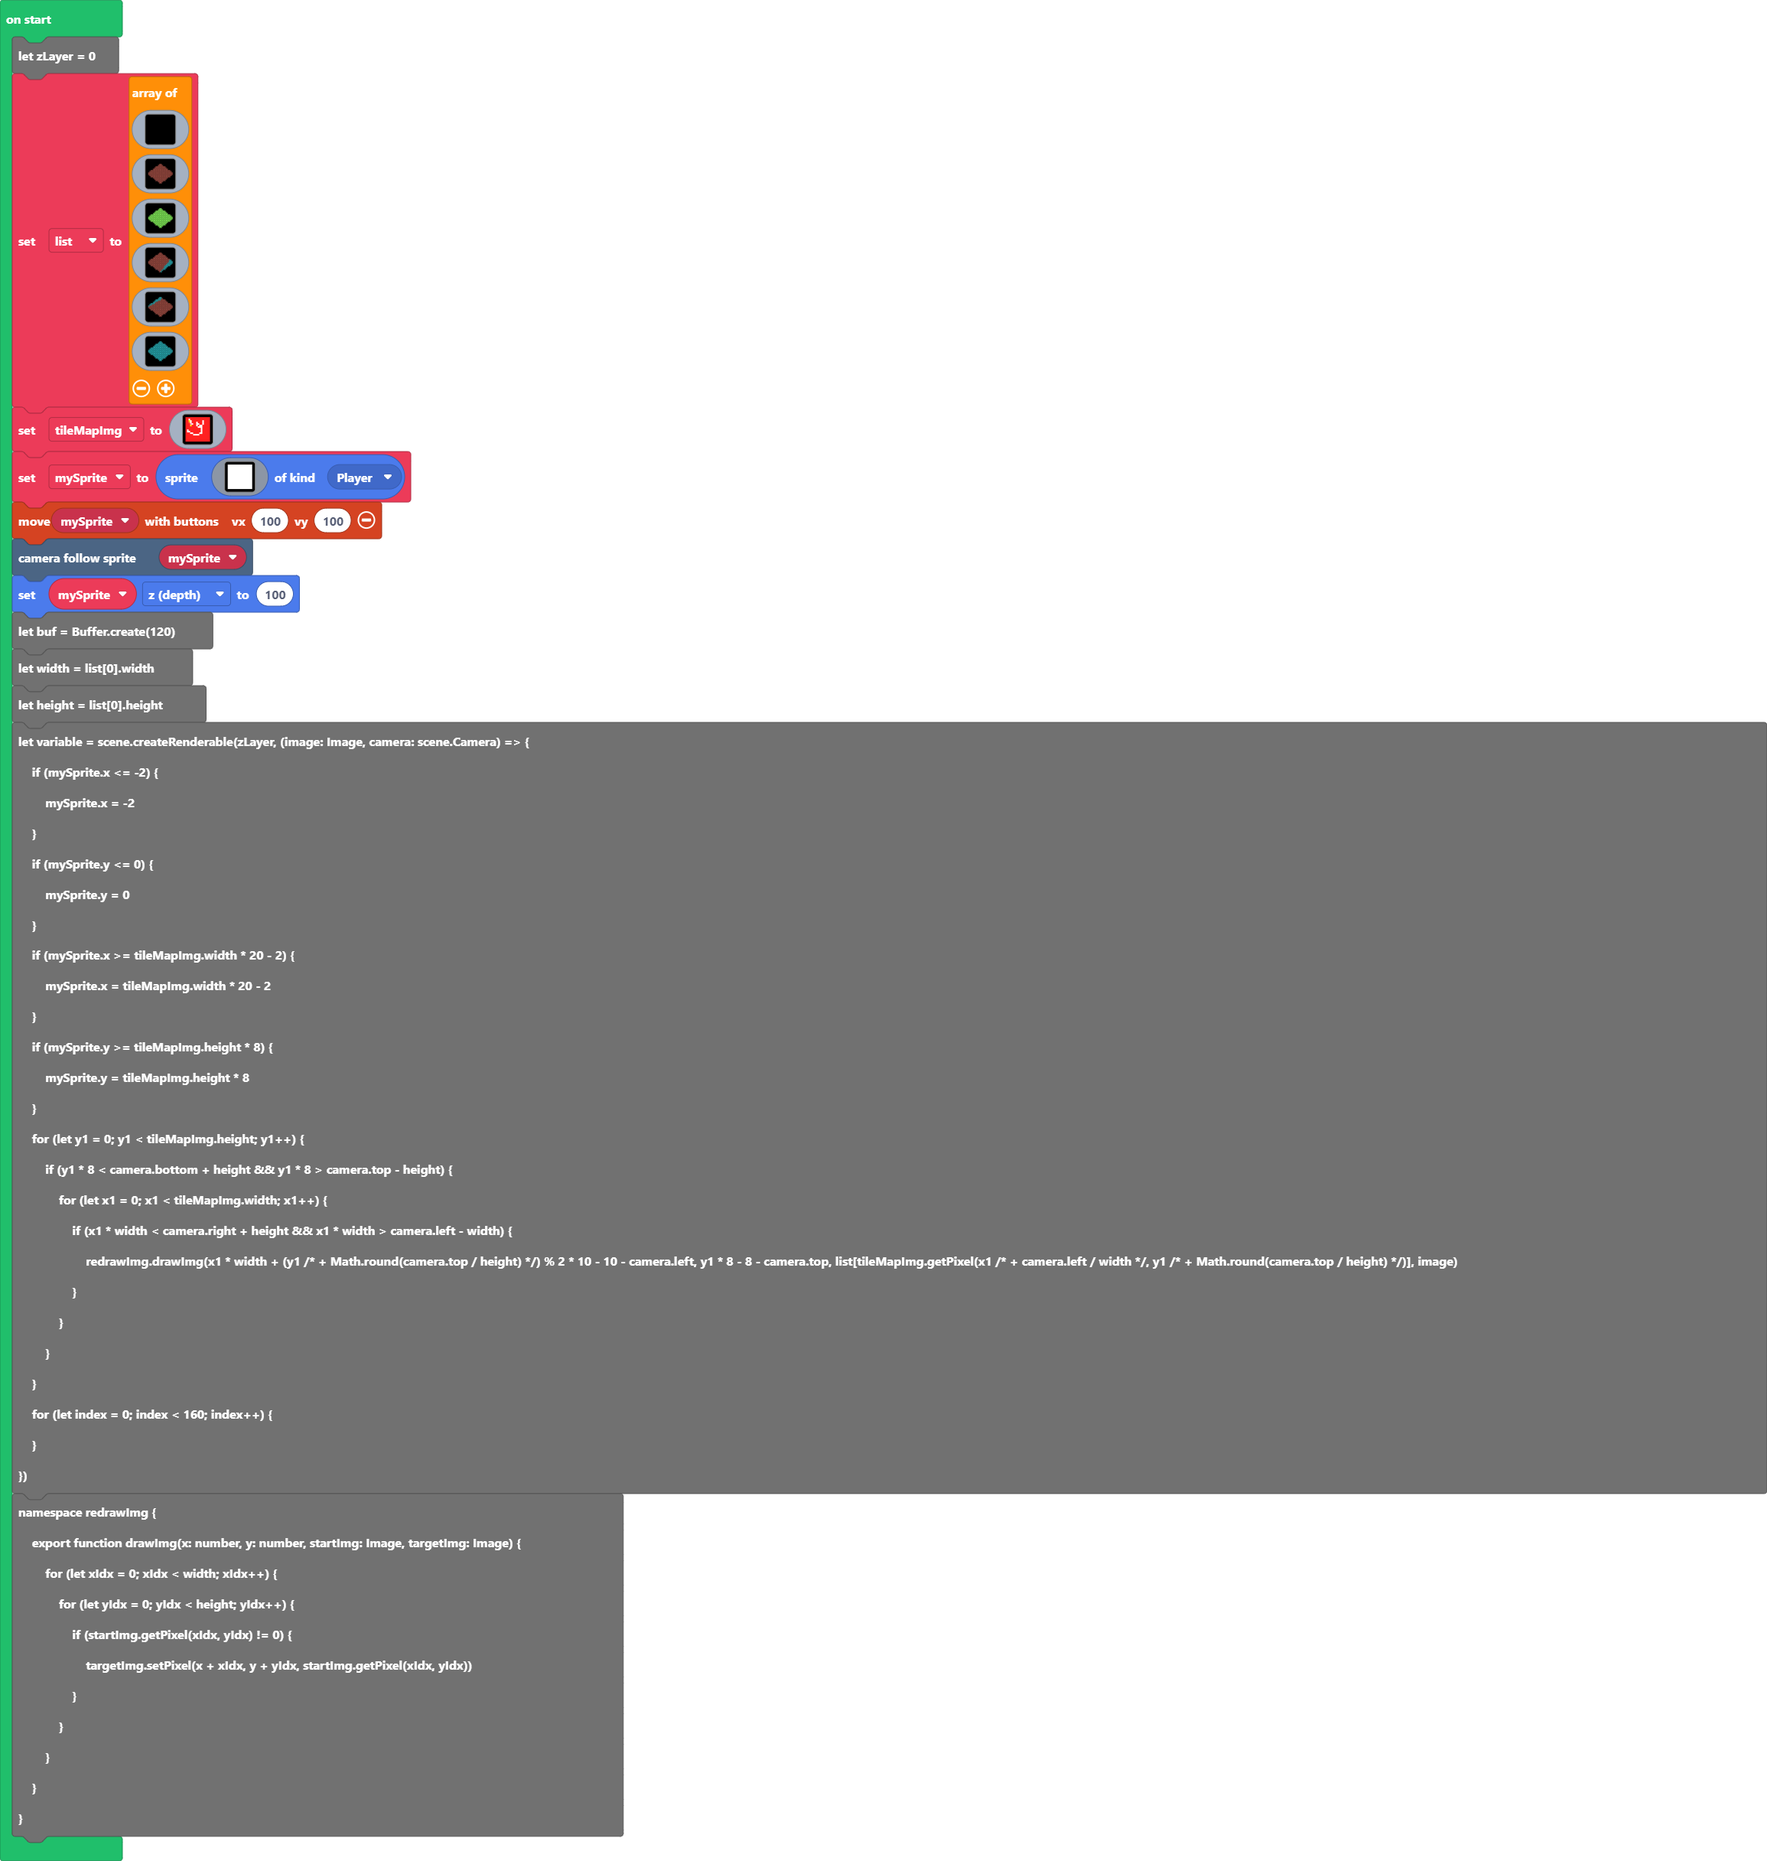
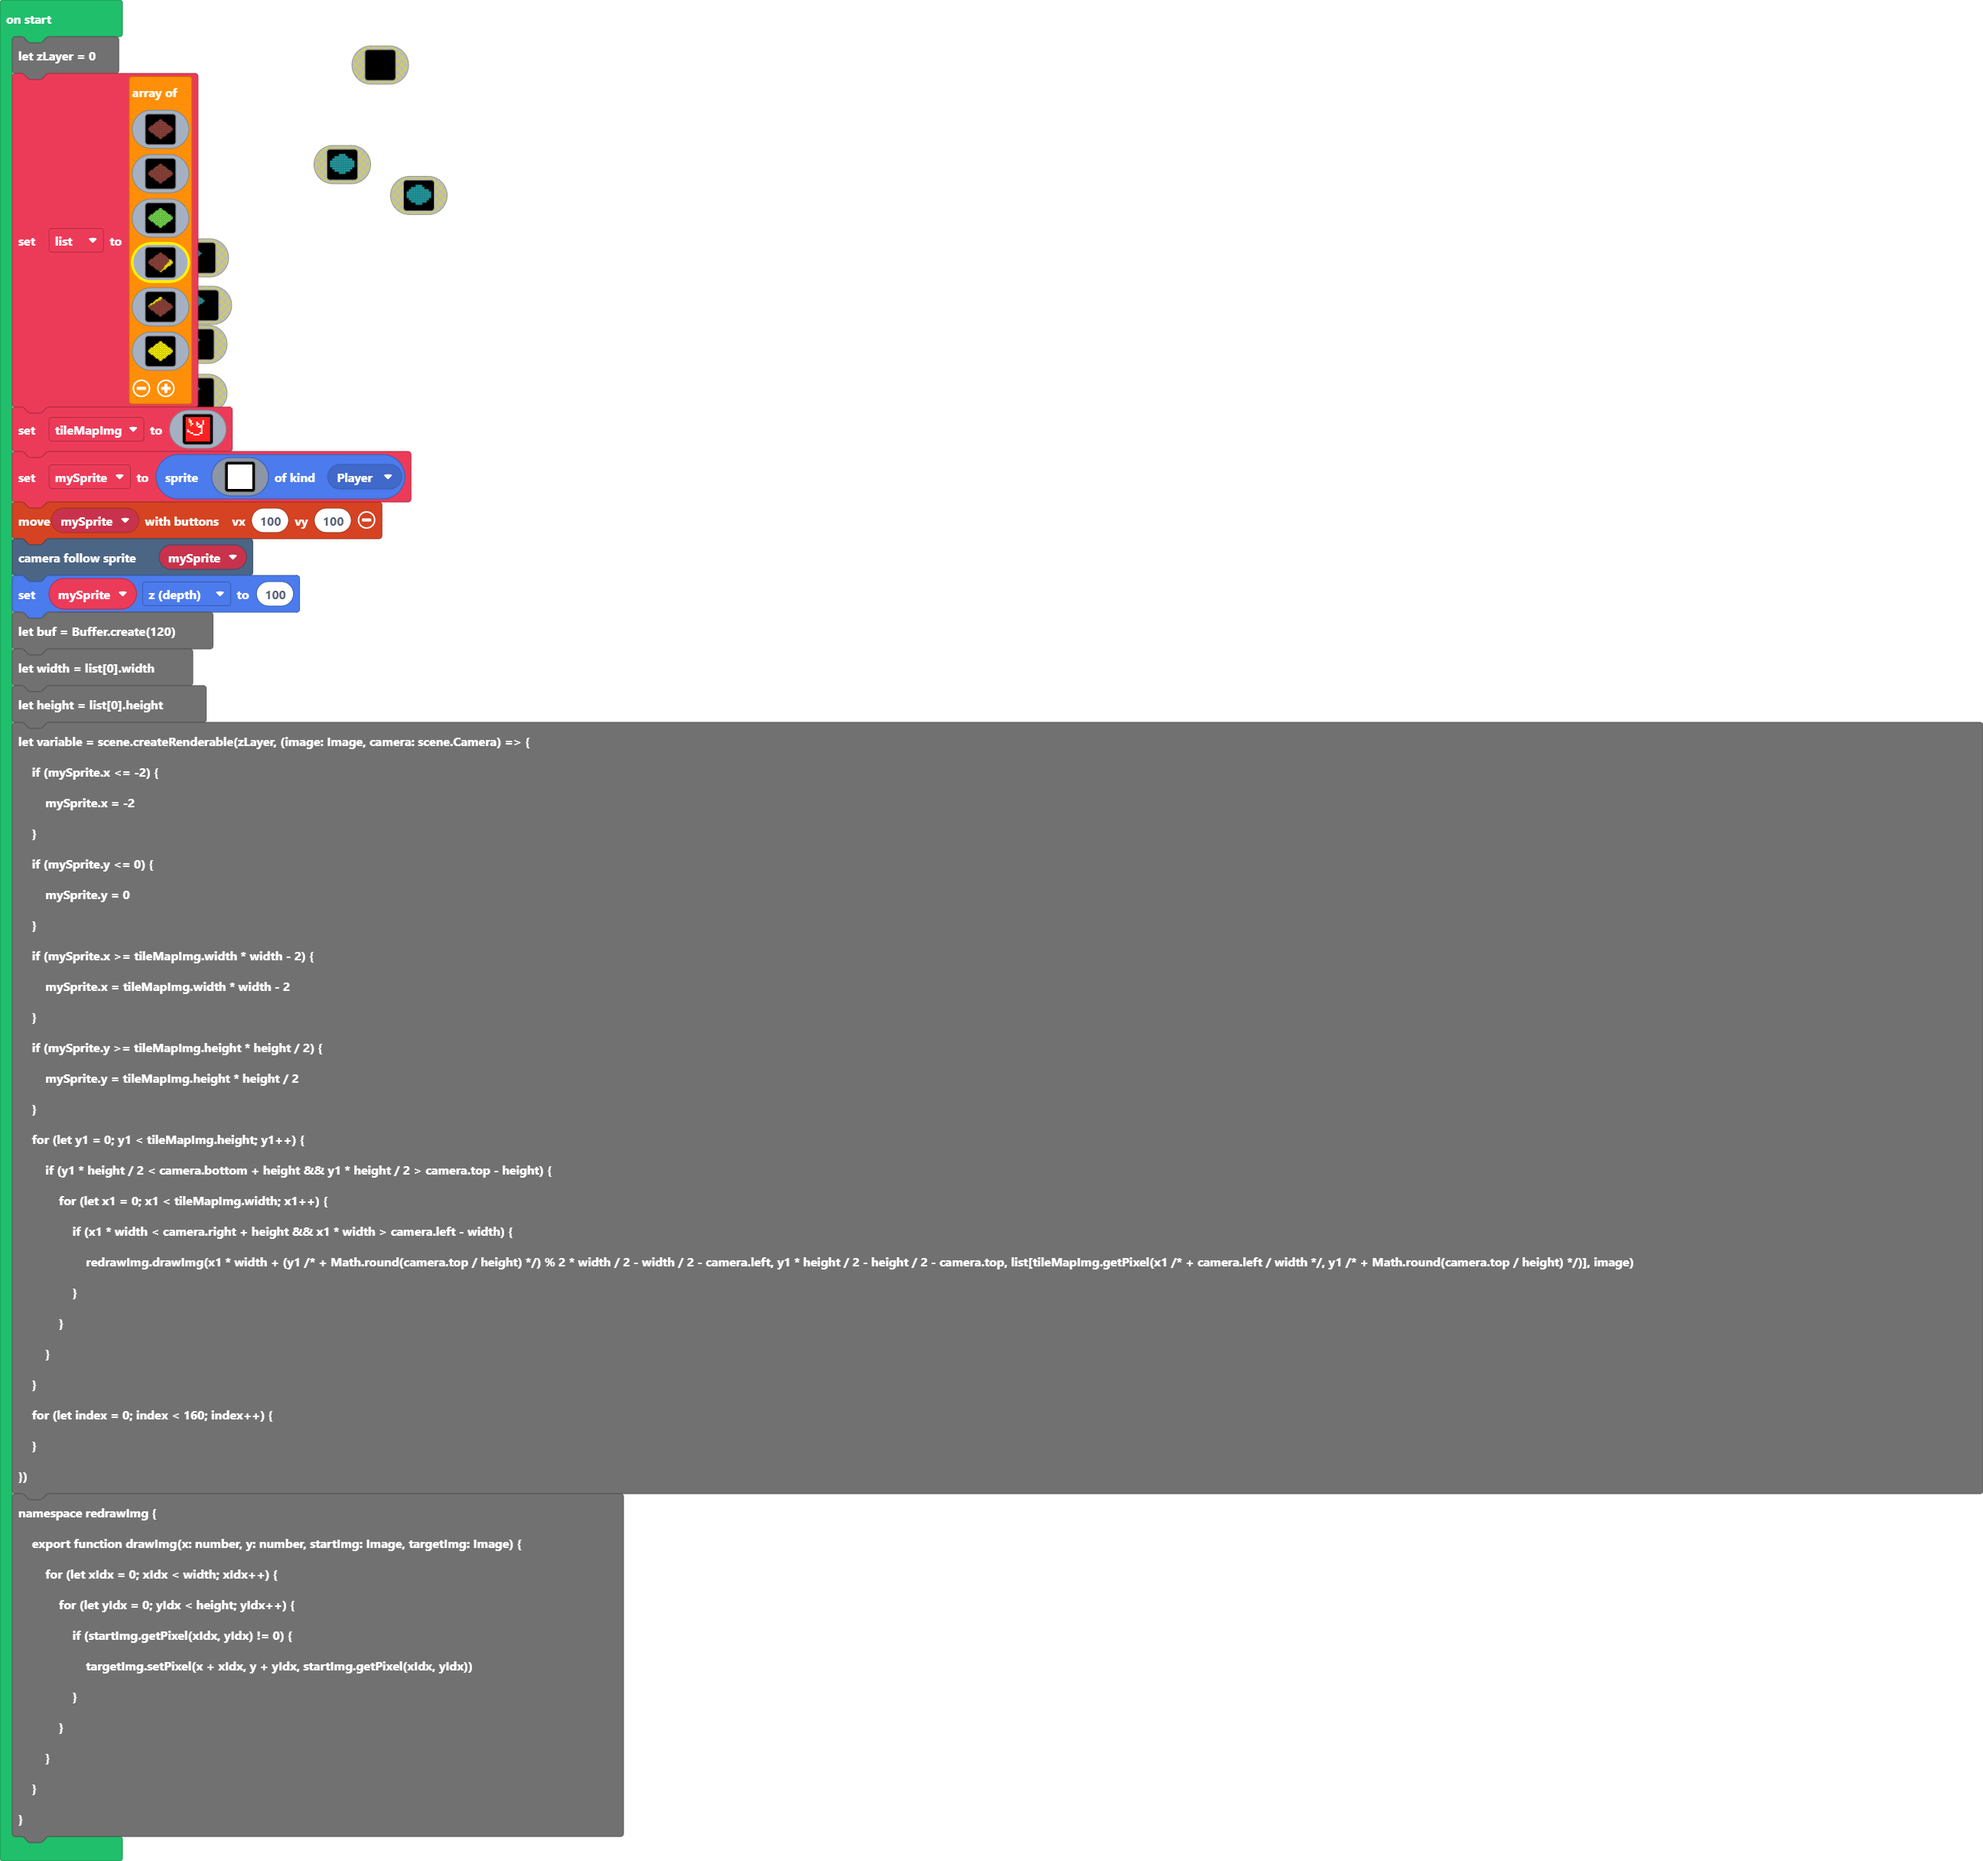
Update pxt.json, main.blocks, main.ts

diff --git a/main.ts b/main.ts
@@ -1,22 +1,22 @@
 let zLayer = 0
 let list = [
 img`
-    ....................
-    ....................
-    ....................
-    ....................
-    ....................
-    ....................
-    ....................
-    ....................
-    ....................
-    ....................
-    ....................
-    ....................
-    ....................
-    ....................
-    ....................
-    ....................
+    .........ee.........
+    ........eeee........
+    ......eeeeeeee......
+    .....eeeeeeeeee.....
+    ....eeeeeeeeeeee....
+    ..eeeeeeeeeeeeeeee..
+    .eeeeeeeeeeeeeeeeee.
+    eeeeeeeeeeeeeeeeeeee
+    eeeeeeeeeeeeeeeeeeee
+    .eeeeeeeeeeeeeeeeee.
+    ..eeeeeeeeeeeeeeee..
+    ....eeeeeeeeeeee....
+    .....eeeeeeeeee.....
+    ......eeeeeeee......
+    ........eeee........
+    .........ee.........
     `,
 img`
     .........ee.........
@@ -61,26 +61,26 @@ img`
     .....eeeeeeeeee.....
     ....eeeeeeeeeeee....
     ..eeeeeeeeeeeeeeee..
-    .eeeeeeeeeeeeeeee66.
-    eeeeeeeeeeeeeeeee666
-    eeeeeeeeeeeeeeee6666
-    .eeeeeeeeeeeeee6666.
-    ..eeeeeeeeeeee6666..
-    ....eeeeeeeee666....
-    .....eeeeeeee66.....
-    ......eeeeee66......
-    ........eee6........
-    .........e6.........
+    .eeeeeeeeeeeeeeee55.
+    eeeeeeeeeeeeeeeee555
+    eeeeeeeeeeeeeeee5555
+    .eeeeeeeeeeeeee5555.
+    ..eeeeeeeeeeee5555..
+    ....eeeeeeeee555....
+    .....eeeeeeee55.....
+    ......eeeeee55......
+    ........eee5........
+    .........e5.........
     `,
 img`
-    .........66.........
-    ........666e........
-    ......6666eeee......
-    .....666eeeeeee.....
-    ....66eeeeeeeeee....
-    ..666eeeeeeeeeeeee..
-    .66eeeeeeeeeeeeeeee.
-    6eeeeeeeeeeeeeeeeeee
+    .........55.........
+    ........555e........
+    ......5555eeee......
+    .....555eeeeeee.....
+    ....55eeeeeeeeee....
+    ..555eeeeeeeeeeeee..
+    .55eeeeeeeeeeeeeeee.
+    5eeeeeeeeeeeeeeeeeee
     eeeeeeeeeeeeeeeeeeee
     .eeeeeeeeeeeeeeeeee.
     ..eeeeeeeeeeeeeeee..
@@ -91,22 +91,22 @@ img`
     .........ee.........
     `,
 img`
-    .........66.........
-    ........6666........
-    ......66666666......
-    .....6666666666.....
-    ....666666666666....
-    ..6666666666666666..
-    .666666666666666666.
-    66666666666666666666
-    66666666666666666666
-    .666666666666666666.
-    ..6666666666666666..
-    ....666666666666....
-    .....6666666666.....
-    ......66666666......
-    ........6666........
-    .........66.........
+    .........55.........
+    ........5555........
+    ......55555555......
+    .....5555555555.....
+    ....555555555555....
+    ..5555555555555555..
+    .555555555555555555.
+    55555555555555555555
+    55555555555555555555
+    .555555555555555555.
+    ..5555555555555555..
+    ....555555555555....
+    .....5555555555.....
+    ......55555555......
+    ........5555........
+    .........55.........
     `
 ]
 let tileMapImg = img`
@@ -158,17 +158,17 @@ let variable = scene.createRenderable(zLayer, (image: Image, camera: scene.Camer
     if (mySprite.y <= 0) {
         mySprite.y = 0
     }
-    if (mySprite.x >= tileMapImg.width * 20 - 2) {
-        mySprite.x = tileMapImg.width * 20 - 2
+    if (mySprite.x >= tileMapImg.width * width - 2) {
+        mySprite.x = tileMapImg.width * width - 2
     }
-    if (mySprite.y >= tileMapImg.height * 8) {
-        mySprite.y = tileMapImg.height * 8
+    if (mySprite.y >= tileMapImg.height * height / 2) {
+        mySprite.y = tileMapImg.height * height / 2
     }
     for (let y1 = 0; y1 < tileMapImg.height; y1++) {
-        if (y1 * 8 < camera.bottom + height && y1 * 8 > camera.top - height) {
+        if (y1 * height / 2 < camera.bottom + height && y1 * height / 2 > camera.top - height) {
             for (let x1 = 0; x1 < tileMapImg.width; x1++) {
                 if (x1 * width < camera.right + height && x1 * width > camera.left - width) {
-                    redrawImg.drawImg(x1 * width + (y1 /* + Math.round(camera.top / height) */) % 2 * 10 - 10 - camera.left, y1 * 8 - 8 - camera.top, list[tileMapImg.getPixel(x1 /* + camera.left / width */, y1 /* + Math.round(camera.top / height) */)], image)
+                    redrawImg.drawImg(x1 * width + (y1 /* + Math.round(camera.top / height) */) % 2 * width / 2 - width / 2 - camera.left, y1 * height / 2 - height / 2 - camera.top, list[tileMapImg.getPixel(x1 /* + camera.left / width */, y1 /* + Math.round(camera.top / height) */)], image)
                 }
             }
         }
